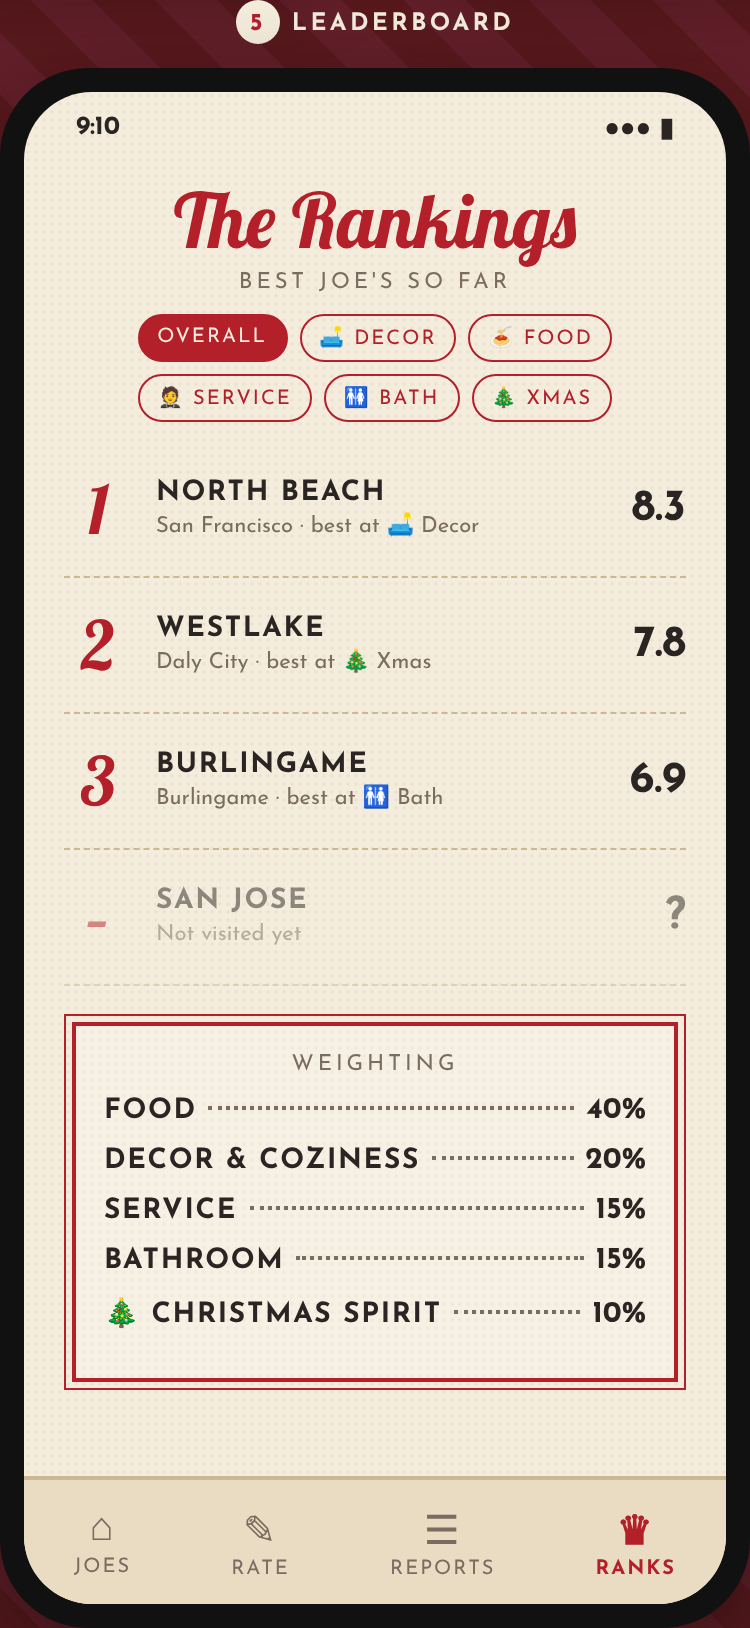
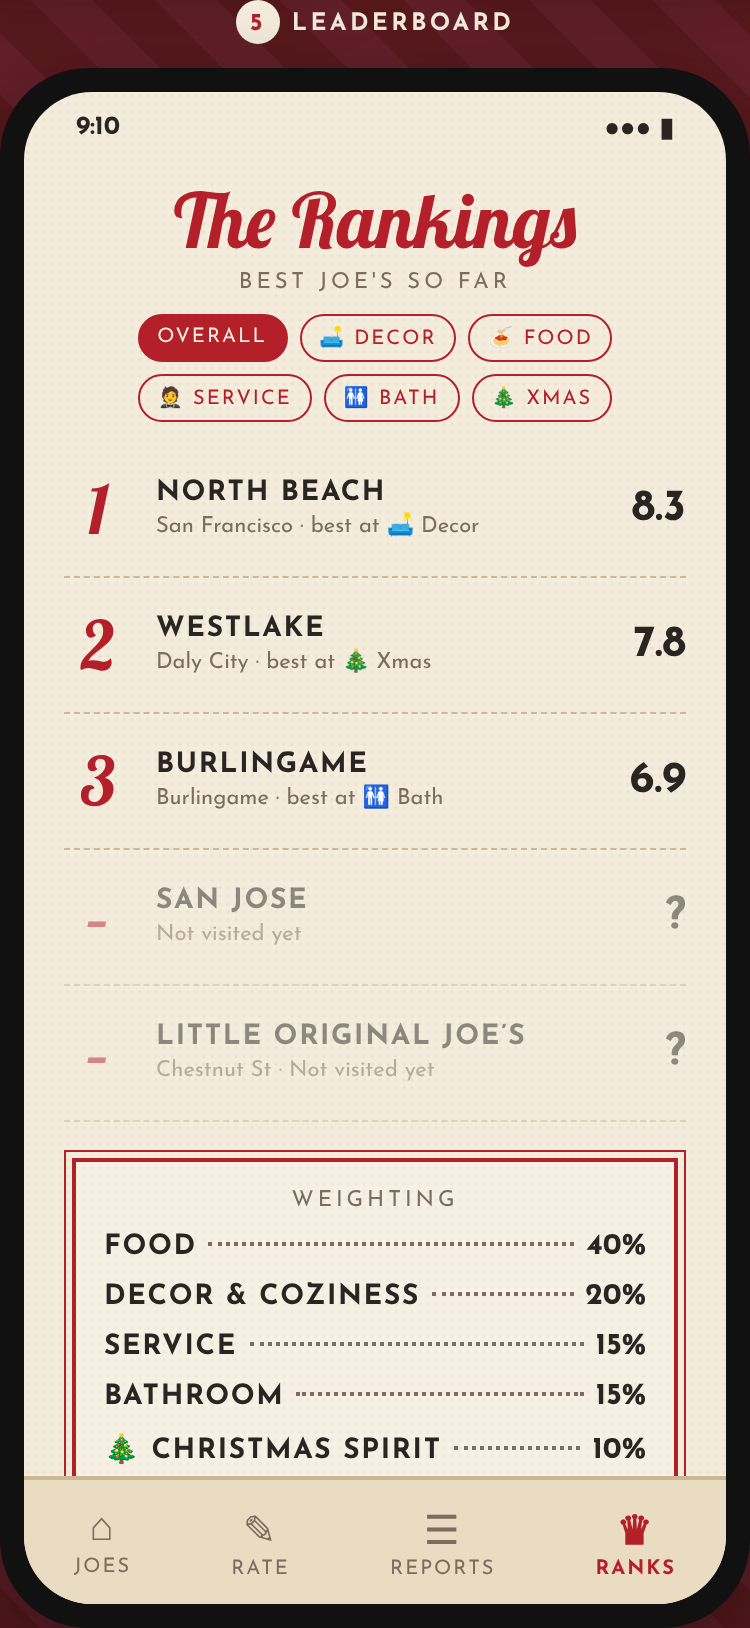
Add Little Original Joe's (Chestnut St) to location list
Claude-Session: https://claude.ai/code/session_011Dx8EhM5jGPoau32W4JsVq

Changed region(s): [[0.092, 0.6143, 0.92, 0.9214]]

diff --git a/mockups/index.html b/mockups/index.html
@@ -345,7 +345,7 @@ const LOCS = [
   { name: 'Westlake',     city: 'Daly City',     date: 'Nov 29', avg: { decor: 8.5, service: 7.8, bath: 7.5, food: 7.2, xmas: 9.5 } },
   { name: 'Burlingame',   city: 'Burlingame',    date: 'Nov 15', avg: { decor: 6.0, service: 7.5, bath: 8.3, food: 7.0, xmas: 5.0 } },
   { name: 'San Jose',     city: 'San Jose',      date: null },
-  { name: 'Location TBD', city: 'Add another Joe’s', date: null },
+  { name: 'Little Original Joe’s', city: 'Chestnut St · Marina, SF', date: null },
 ];
 
 const avg = arr => arr.reduce((a, b) => a + b, 0) / arr.length;
@@ -407,7 +407,7 @@ const ranked = LOCS.filter(l => l.avg).map(l => ({ ...l, o: overall(l.avg) })).s
 const best = l => { const k = CATS.reduce((m, c) => l.avg[c.k] > l.avg[m] ? c.k : m, 'decor'); return short[k]; };
 document.getElementById('ranks').innerHTML = ranked.map((l, i) => `
   <div class="rank"><span class="n">${i + 1}</span><div class="meta"><b>${l.name}</b><i>${l.city} · best at ${best(l)}</i></div><span class="s">${f1(l.o)}</span></div>`).join('') +
-  `<div class="rank" style="opacity:.5"><span class="n">–</span><div class="meta"><b>San Jose</b><i>Not visited yet</i></div><span class="s">?</span></div>`;
+  `<div class="rank" style="opacity:.5"><span class="n">–</span><div class="meta"><b>San Jose</b><i>Not visited yet</i></div><span class="s">?</span></div><div class="rank" style="opacity:.5"><span class="n">–</span><div class="meta"><b>Little Original Joe’s</b><i>Chestnut St · Not visited yet</i></div><span class="s">?</span></div>`;
 </script>
 </body>
 </html>
